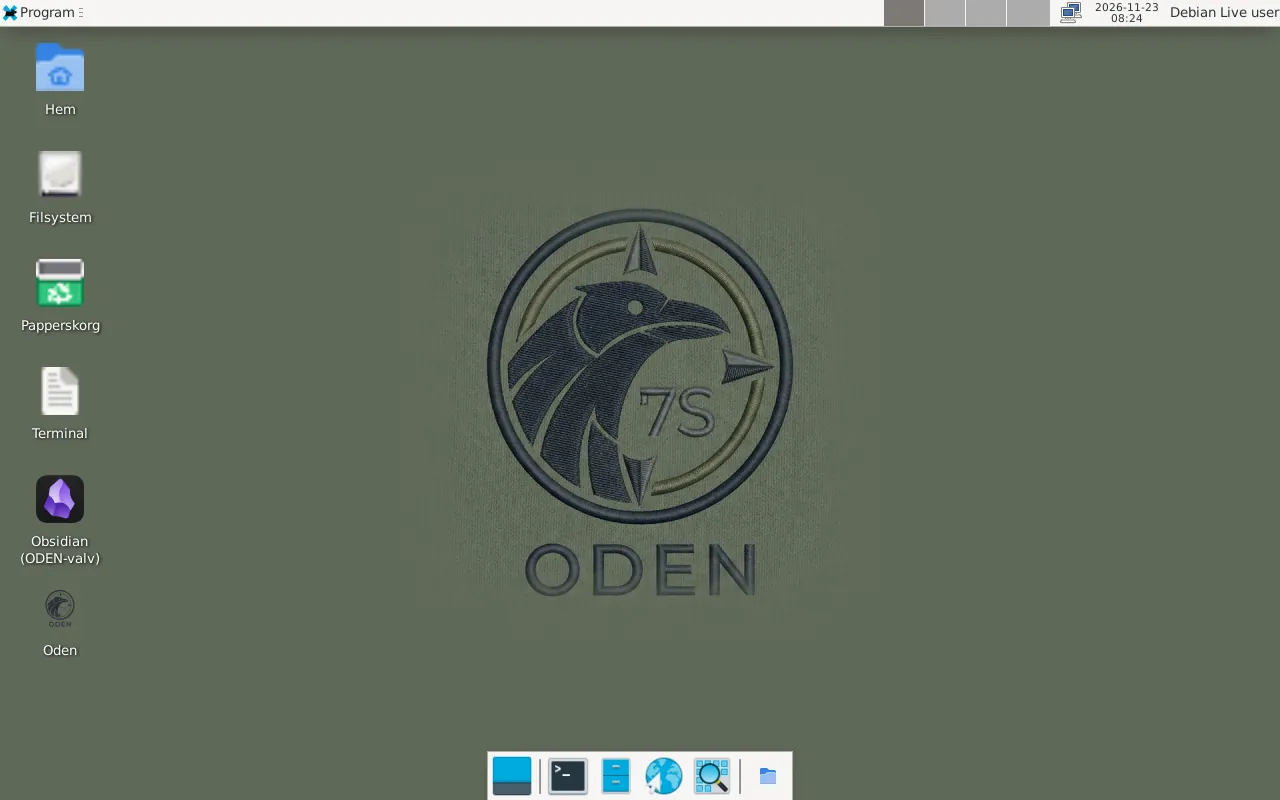
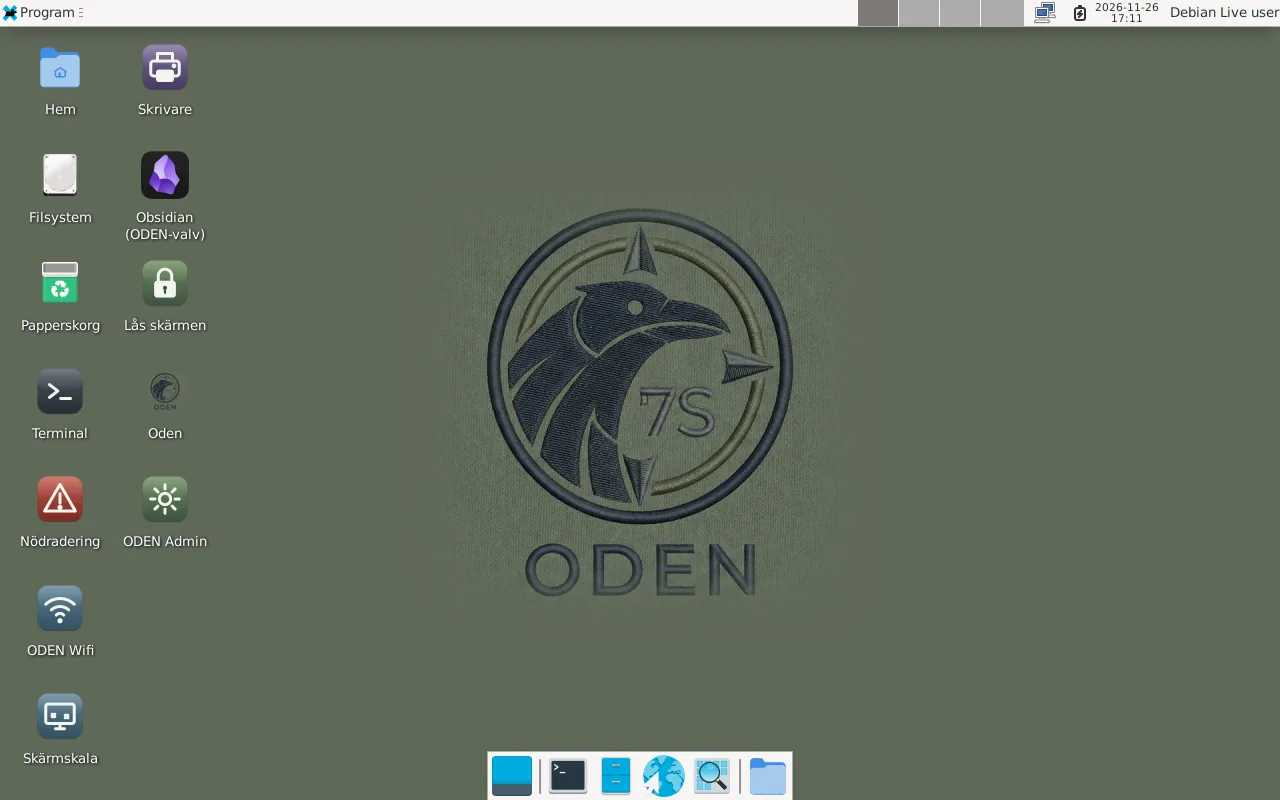
site: nya skärmbilder av skrivbordet och skärmlåset på Kom igång
Claude-Session: https://claude.ai/code/session_0172yuKEZ9ubwygbec7FFqQd

diff --git a/site/kom-igang.html b/site/kom-igang.html
@@ -53,7 +53,8 @@
 <figure class="skarm"><img src="img/skarm/01-losenfras.webp" width="1280" height="800" loading="lazy" alt="Dialogen ODEN: välj lösenfras"><figcaption>Första start: välj lösenfras.</figcaption></figure>
 <figure class="skarm"><img src="img/skarm/03-upprepa-losenfras.webp" width="1280" height="800" loading="lazy" alt="Dialogen ODEN: upprepa lösenfrasen"><figcaption>Upprepa lösenfrasen.</figcaption></figure>
 <p><strong>Glömmer du lösenfrasen går datan inte att få tillbaka.</strong> Det finns ingen återställning.</p>
-<figure class="skarm"><img src="img/skarm/02-skrivbord.webp" width="1280" height="800" loading="lazy" alt="ODEN-skrivbordet med ikonerna Hem, Filsystem, Papperskorg, Terminal, Obsidian och Oden"><figcaption>Skrivbordet. Starta Oden och Obsidian med ikonerna till vänster.</figcaption></figure>
+<figure class="skarm"><img src="img/skarm/02-skrivbord.webp" width="1280" height="800" loading="lazy" alt="ODEN-skrivbordet med ikonerna Hem, Skrivare, Filsystem, Obsidian, Papperskorg, Lås skärmen, Terminal, Oden, Nödradering, ODEN Admin, ODEN Wifi och Skärmskala"><figcaption>Skrivbordet. Starta Oden och Obsidian med ikonerna, och lås skärmen med hänglåset. Batterinivån syns uppe till höger på laptop.</figcaption></figure>
+<figure class="skarm"><img src="img/skarm/07-skarmlas.webp" width="1280" height="800" loading="lazy" alt="Låsskärmen med ODEN-logotypen och en ruta för lösenord"><figcaption>Låsskärmen. Den öppnas med lösenfrasen. Under <em>Lås skärmen</em> på skrivbordet väljer du också efter hur lång tid skärmen låses av sig själv.</figcaption></figure>
 
 <h2>Koppla Signal</h2>
 <ol>
